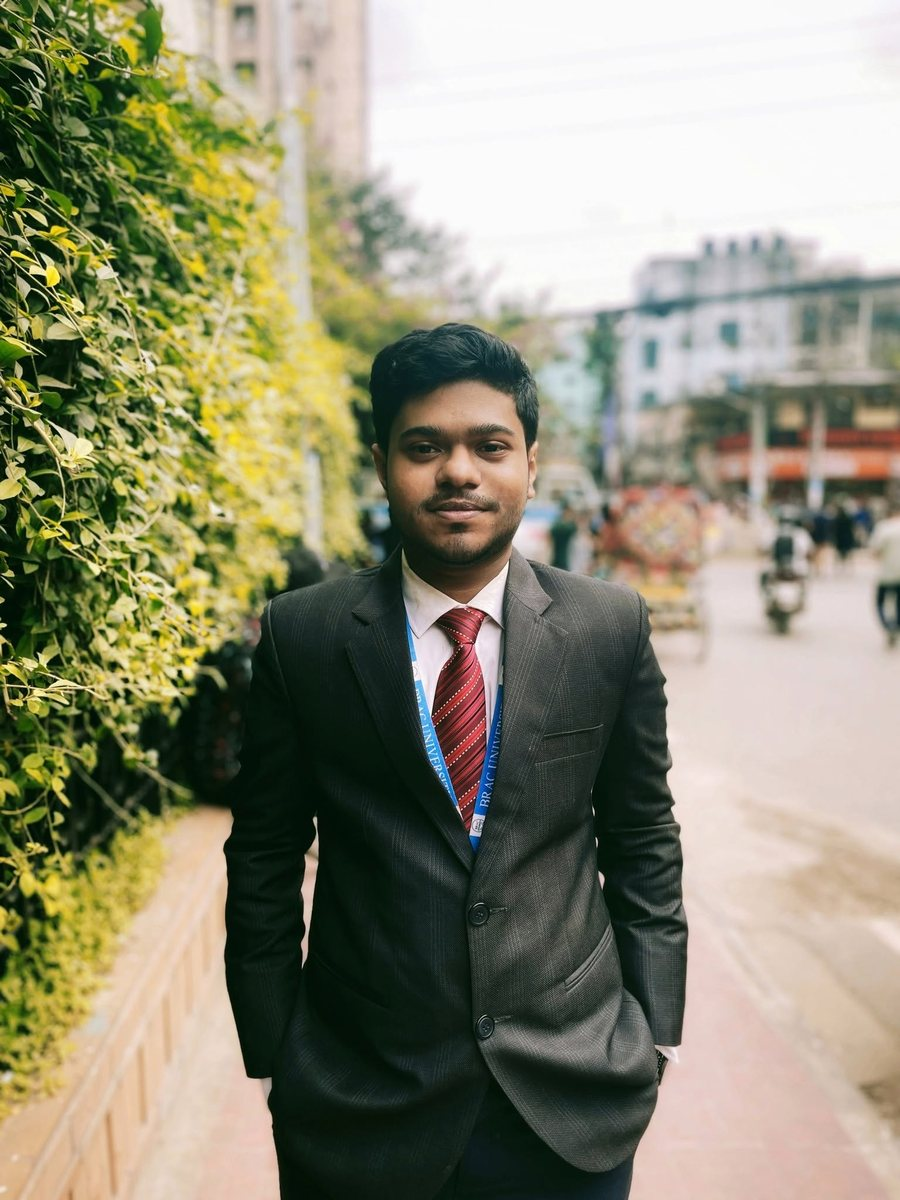
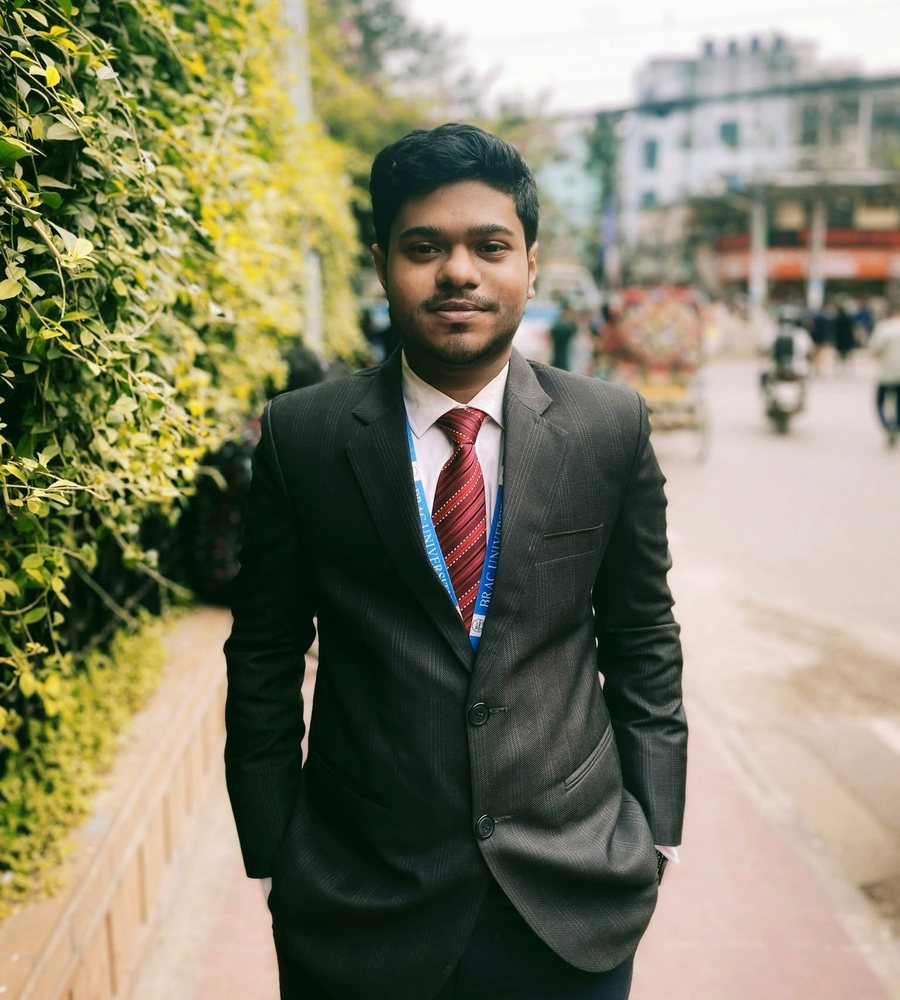
Trim the top of the photo, keep full width and bottom

diff --git a/index.html b/index.html
@@ -102,7 +102,7 @@
     .btn-outline { border: 1.5px solid var(--line); color: var(--text); }
     .btn-outline:hover { border-color: var(--violet); transform: translateY(-2px); }
 
-    .photo-wrap { justify-self: center; position: relative; width: min(420px, 85vw); aspect-ratio: 3 / 4; }
+    .photo-wrap { justify-self: center; position: relative; width: min(420px, 85vw); aspect-ratio: 9 / 10; }
     .photo-ring {
       position: absolute; inset: -3px; border-radius: 31px;
       background: linear-gradient(150deg, var(--violet-hi), rgba(124,108,255,0.15) 45%, var(--violet) 100%);
@@ -275,7 +275,7 @@
 
       <div class="photo-wrap">
         <div class="photo-ring" aria-hidden="true"></div>
-        <img src="shuvo.jpg" alt="Shuvo Datta in a dark suit and red tie, wearing a BRAC University lanyard" width="900" height="1200" />
+        <img src="shuvo.jpg" alt="Shuvo Datta in a dark suit and red tie, wearing a BRAC University lanyard" width="900" height="1000" />
         <div class="badge">
           <span class="ico">
             <svg width="18" height="18" viewBox="0 0 24 24" fill="none" stroke="currentColor" stroke-width="2" stroke-linecap="round" stroke-linejoin="round"><path d="M22 10 12 5 2 10l10 5 10-5z"/><path d="M6 12v5c3 2 9 2 12 0v-5"/></svg>
